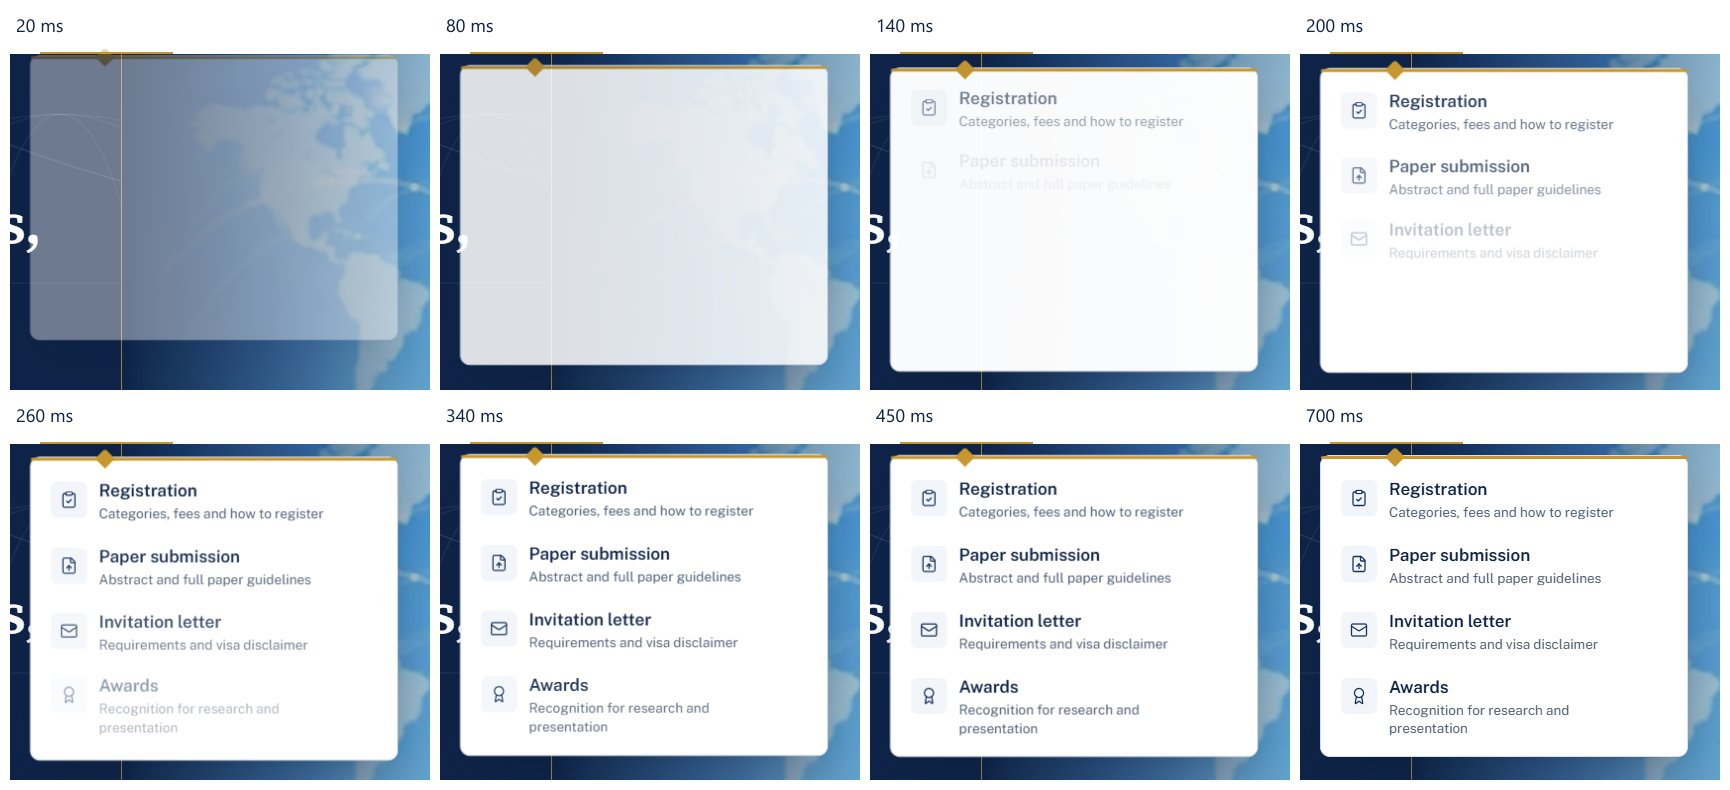
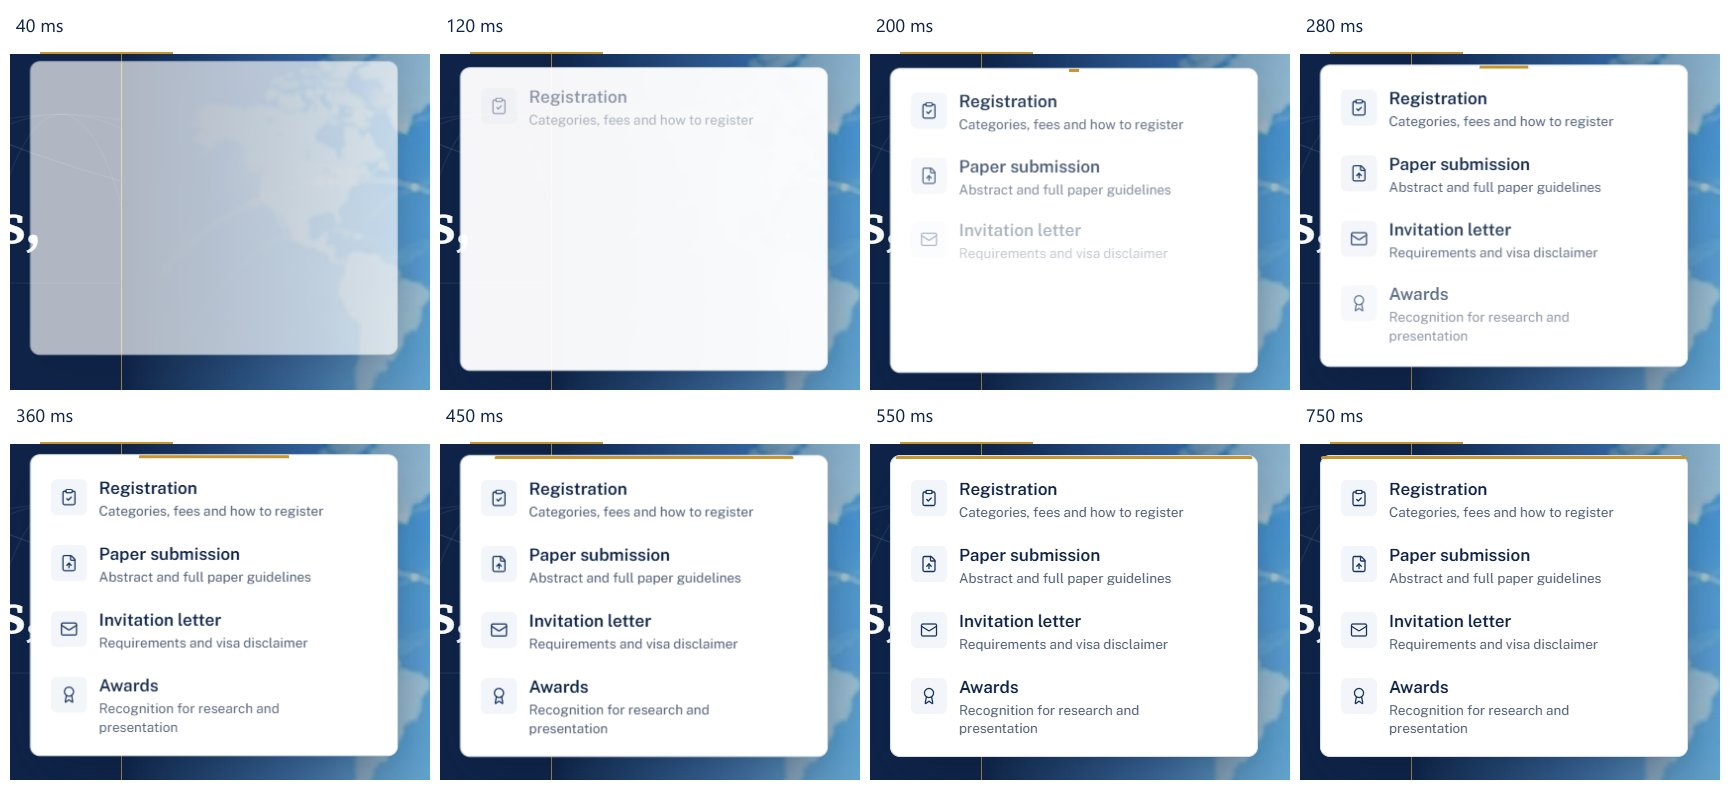
Draw dropdown gold rule from the centre outwards; remove caret
The gold top line of each navigation dropdown now grows from the middle to both
sides as the panel lands. The diamond caret is removed.

diff --git a/src/components/layout/NavDropdown.tsx b/src/components/layout/NavDropdown.tsx
@@ -1,4 +1,4 @@
-import { useEffect, useLayoutEffect, useRef, useState, type KeyboardEvent, type PointerEvent } from 'react';
+import { useEffect, useRef, type KeyboardEvent, type PointerEvent } from 'react';
 import { NavLink } from 'react-router-dom';
 import { ChevronDown, ChevronRight } from 'lucide-react';
 import { navIcons } from './navIcons';
@@ -35,14 +35,7 @@ export function NavDropdown({ group, open, active, onOpen, onClose, onToggle, on
   const panelRef = useRef<HTMLDivElement>(null);
   const pointerType = useRef<string>('mouse');
   const openedByHover = useRef(false);
-  const [caretX, setCaretX] = useState(24);
   const menuId = menuIdFor(group.label);
-
-  // Point the caret at the centre of the trigger label.
-  useLayoutEffect(() => {
-    const t = triggerRef.current;
-    if (t) setCaretX(t.offsetWidth / 2 - 7);
-  }, [group.label]);
 
   // Keyboard "ArrowDown" opens the menu, then focuses the first link once it is rendered (no longer inert).
   const focusFirstOnOpen = useRef(false);
@@ -155,7 +148,7 @@ export function NavDropdown({ group, open, active, onOpen, onClose, onToggle, on
         />
       </button>
 
-      <DropdownPanel id={menuId} open={open} caretX={caretX} panelRef={panelRef} onKeyDown={onPanelKey}>
+      <DropdownPanel id={menuId} open={open} panelRef={panelRef} onKeyDown={onPanelKey}>
         {group.items!.map((item, i) => (
           <DropdownLink key={item.to} item={item} index={i} onNavigate={onClose} />
         ))}
@@ -164,18 +157,16 @@ export function NavDropdown({ group, open, active, onOpen, onClose, onToggle, on
   );
 }
 
-/** The floating panel: white card, gold top rule, caret pointing at the trigger, fade + lift transition. */
+/** The floating panel: white card whose gold top rule draws out from the centre as it lands. */
 export function DropdownPanel({
   id,
   open,
-  caretX,
   panelRef,
   onKeyDown,
   children,
 }: {
   id: string;
   open: boolean;
-  caretX: number;
   panelRef: React.RefObject<HTMLDivElement | null>;
   onKeyDown: (e: KeyboardEvent) => void;
   children: React.ReactNode;
@@ -198,14 +189,8 @@ export function DropdownPanel({
       )}
     >
       <div className="dd-card relative w-[23rem] rounded-[var(--radius-lg)] border border-rule bg-white shadow-[0_1px_2px_rgb(14_35_71/0.06),0_18px_40px_-16px_rgb(8_22_48/0.35)]">
-        {/* Caret */}
-        <span
-          aria-hidden
-          className="absolute -top-[6px] size-3.5 rotate-45 rounded-tl-[3px] bg-gold-500"
-          style={{ left: caretX }}
-        />
-        {/* Gold top rule */}
-        <span aria-hidden className="absolute inset-x-0 top-0 h-[3px] rounded-t-[var(--radius-lg)] bg-gold-500" />
+        {/* Gold top rule: grows from the centre out to both sides as the panel lands */}
+        <span aria-hidden className="dd-rule absolute inset-x-0 top-0 h-[3px] rounded-t-[var(--radius-lg)] bg-gold-500" />
         <ul className="relative space-y-0.5 p-2 pt-3">{children}</ul>
       </div>
     </div>

diff --git a/src/styles/index.css b/src/styles/index.css
@@ -180,6 +180,14 @@
   transform-origin: top center;
   animation: dd-land 460ms cubic-bezier(0.22, 1, 0.36, 1) both;
 }
+@keyframes dd-rule-grow {
+  from { transform: scaleX(0); }
+  to { transform: scaleX(1); }
+}
+[data-state='open'] .dd-rule {
+  transform-origin: center;
+  animation: dd-rule-grow 520ms cubic-bezier(0.65, 0, 0.35, 1) 120ms both;
+}
 [data-state='open'] .dd-item,
 [data-expanded='true'] .dd-item {
   animation: dd-item-drop 320ms cubic-bezier(0.22, 1, 0.36, 1) both;
